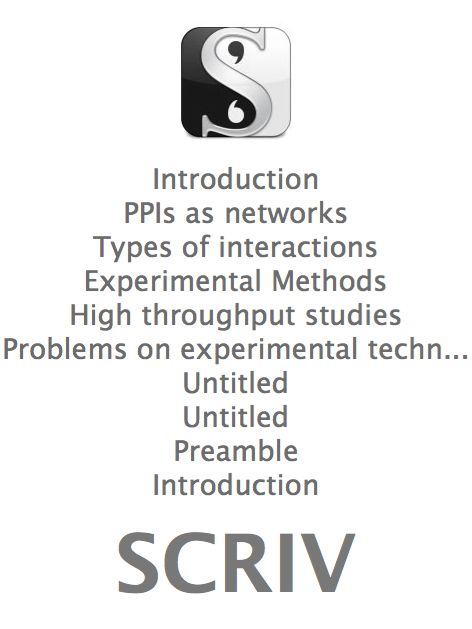
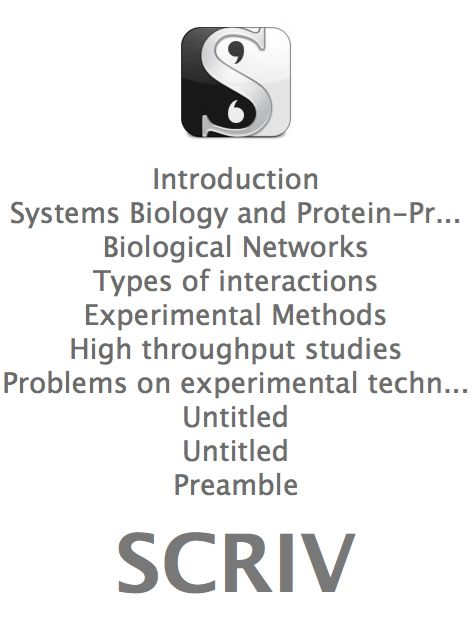
Starting to work in first chapters

Changed region(s): [[0.0, 0.3021, 0.9788, 0.6343], [0.3263, 0.6948, 0.6822, 0.7854], [0.9788, 0.5437, 1.0, 0.5739]]

diff --git a/main.scriv/QuickLook/Preview.html b/main.scriv/QuickLook/Preview.html
@@ -33,17 +33,26 @@
 <hr/>
 <ul>
 <li>
-<p class="binderItem"><strong>Introduction</strong></p>
+<p class="binderItem"><strong>Introduction</strong><br/>The outcome of most biological processes can hardly be understood without the comprehensive analysis of large number of components and interactions. From the most simple systems in the minimal organisms to the mammal complex machineries, the relationship between different molecules usually determines the resulting phenotype. Focusing on cellular proteins, they rarely work in isolation but are frequently involved in pathways and interaction networks. The eventual perturbation of this networks nor...</p>
 </li>
 <hr/>
 <ul>
 <li>
-<p class="binderItem"><strong>PPIs as networks</strong><br/>Cellular proteins rarely work in isolation, but are more usually involved in pathways and interaction networks. Dysfunctional networks are commonly implicated in disease, so an elucidation of protein–protein interactions can greatly contribute to our un- derstanding of pathological states, and much more broadly, of molecular biology. </p>
-</li>
-<li>
-<p class="binderItem"><strong>Types of interactions</strong><br/>Protein interactions can be classified into different types depending on their strength (permanent and transient), specificity (specific or nonspecific), the location of interacting partners within one or on two polypeptide chains, and the similarity between interacting subunits (homo- and hetero-oligomers)<br/>
+<p class="binderItem"><strong>Systems Biology and Protein-Protein Interactions</strong><br/>The Systems Biology relies on the study of mentioned complex interactions within biological systems. Contrary to the more traditional reductionism, this discipline approaches the biological problems from a holistic point of view. Indeed, the reductionism  has been extremely successful explaining many areas of the Biology, but for many reasons, the integration of data is necessary to solve problems that can not be understand as the sum of the parts.<br/>
 <br/>
-Systems biology relies on accurate representa- tions of interaction networks, but these are often hard to describe. Interactions can be conditional or contextual, and may not always be captu...</p>
+The change in the paradigm together with diffe...</p>
+</li>
+<hr/>
+<ul>
+<li>
+<p class="binderItem"><strong>Biological Networks</strong><br/>The study of interactions between the components of biological systems and how these interactions give rise the function and behaviour of the system has been frequently modelled using networks. Many systems take the form of networks <br/>
+<br/>
+The molecular entities are usually represented as nodes connected by edges representing different kinds of relationships. Under this schema, multiple kinds of biological systems has been represented: food webs, gene-regulatory networks or protein-protein interactio...</p>
+</li>
+</ul>
+<hr/>
+<li>
+<p class="binderItem"><strong>Types of interactions</strong><br/>Protein interactions can be classified into different types depending on their strength (permanent and transient), specificity (specific or nonspecific), the location of interacting partners within one or on two polypeptide chains, and the similarity between interacting subunits (homo- and hetero-oligomers)</p>
 </li>
 <li>
 <p class="binderItem"><strong>Experimental Methods</strong><br/>Salwinski, L. & Eisenberg, D. Computational methods of analysis of protein-protein interactions. Curr Opin Struct Biol 13, 377–382 (2003).<br/>
@@ -90,6 +99,9 @@ Shoemaker, B. A. & Panchenko, A. R. Deciphering protein-protein interactions. Pa
 <hr/>
 <li>
 <p class="binderItem"><strong>Systems Biology and Protein-Protein Interactions</strong></p>
+</li>
+<li>
+<p class="binderItem"><strong>PPIs as networks</strong><br/>Cellular proteins rarely work in isolation, but are more usually involved in pathways and interaction networks. Dysfunctional networks are commonly implicated in disease, so an elucidation of protein–protein interactions can greatly contribute to our un- derstanding of pathological states, and much more broadly, of molecular biology. </p>
 </li>
 </ul>
 </ul>
